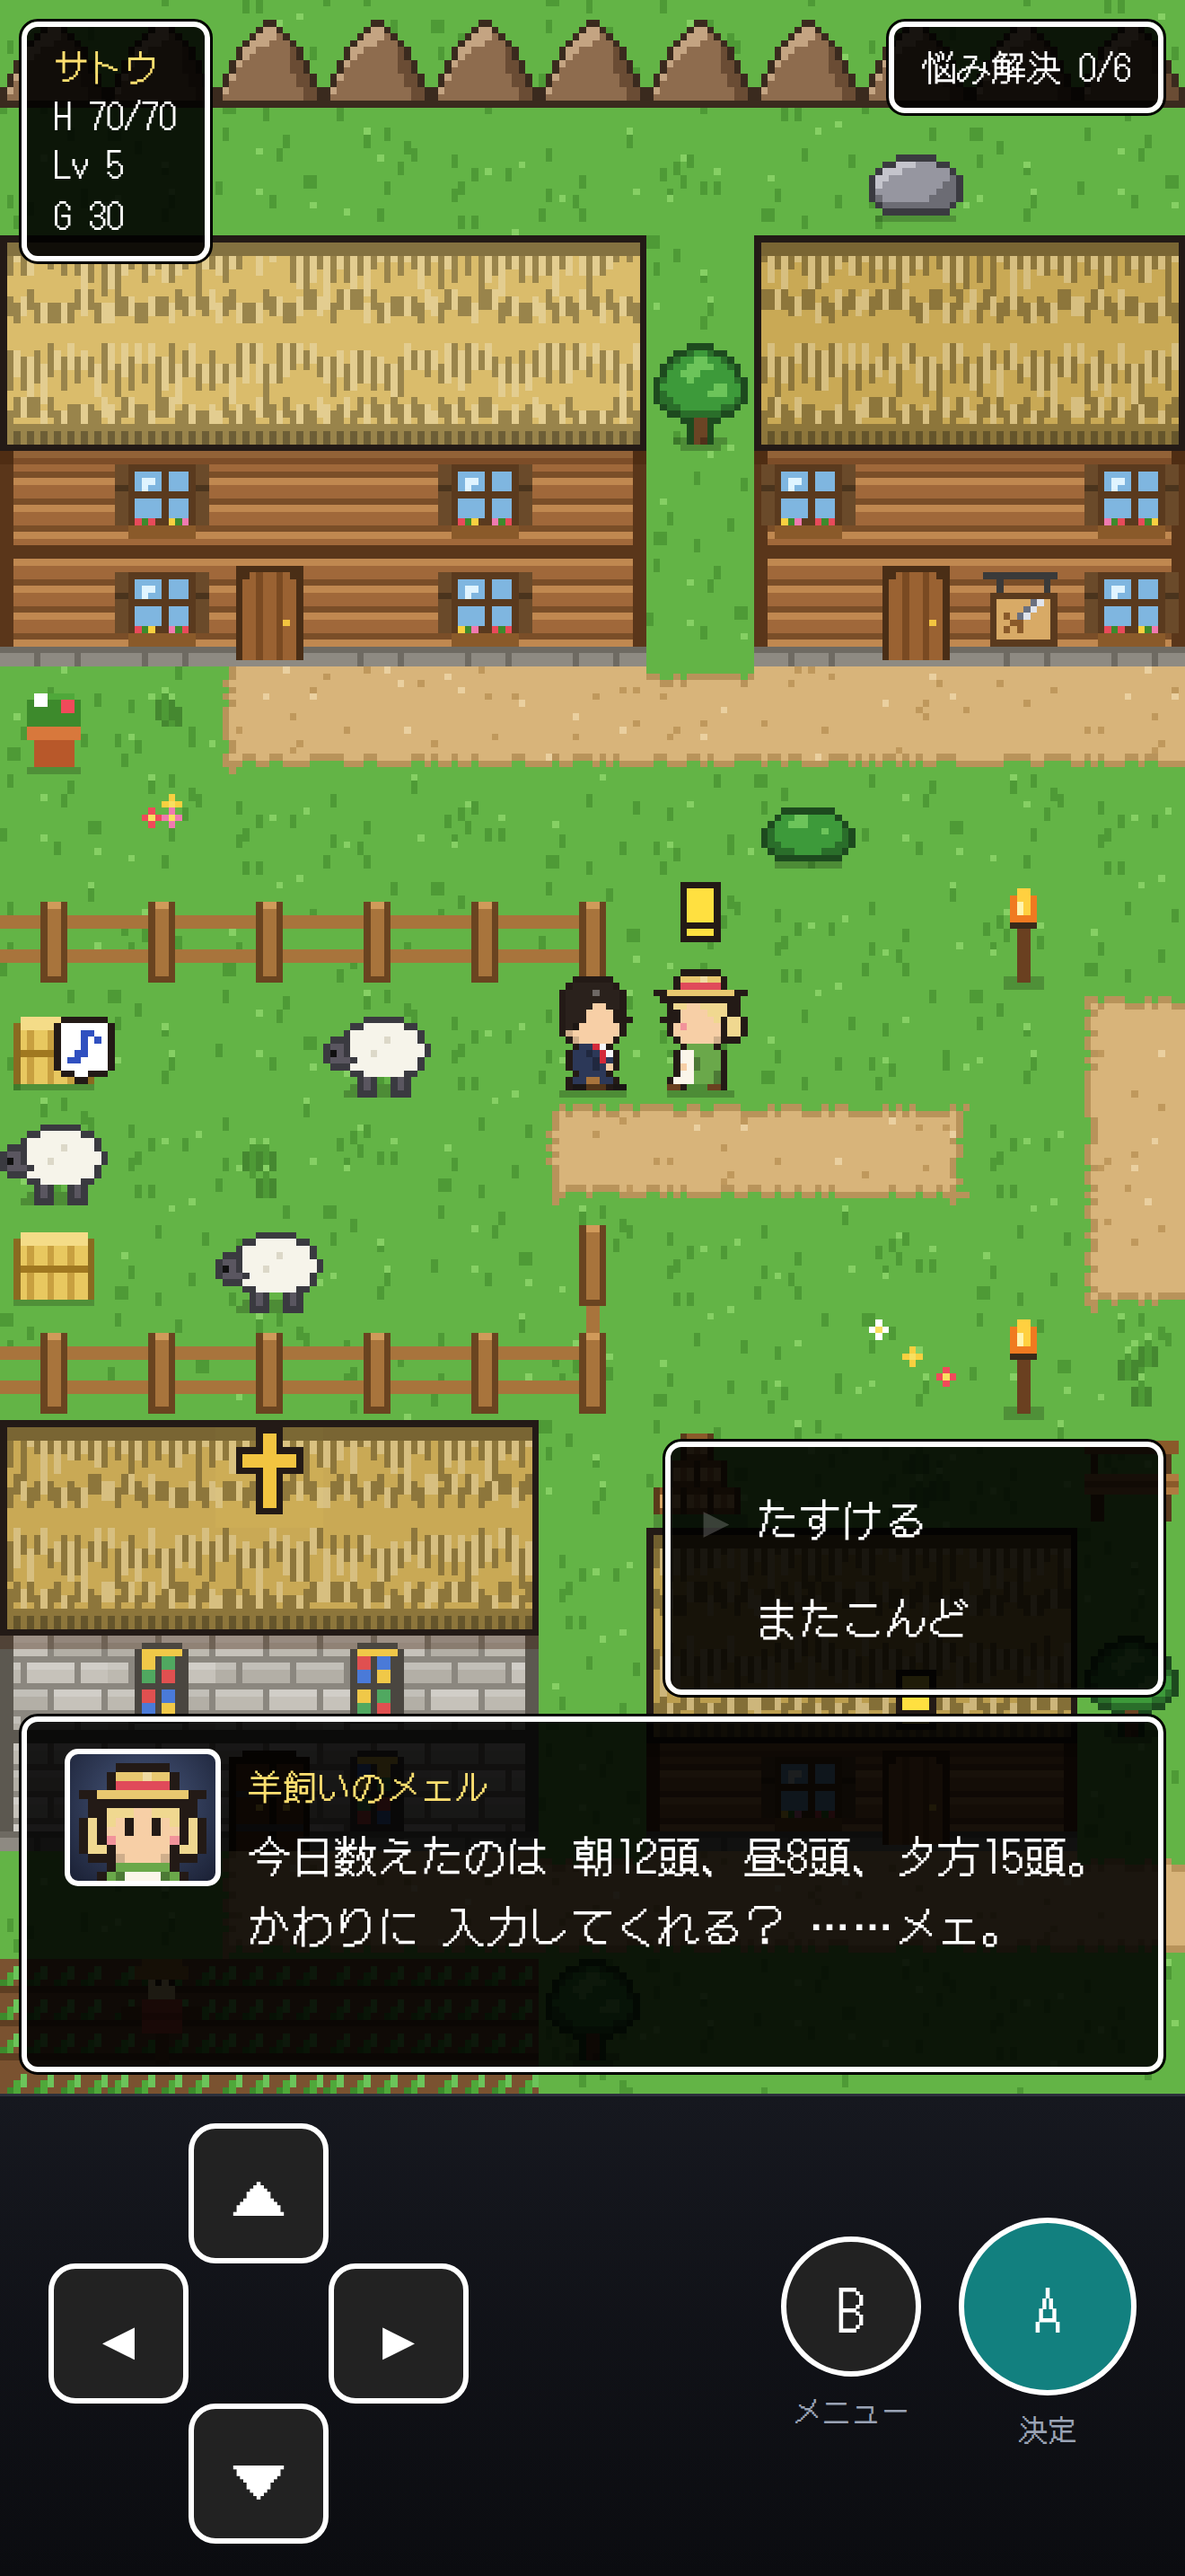
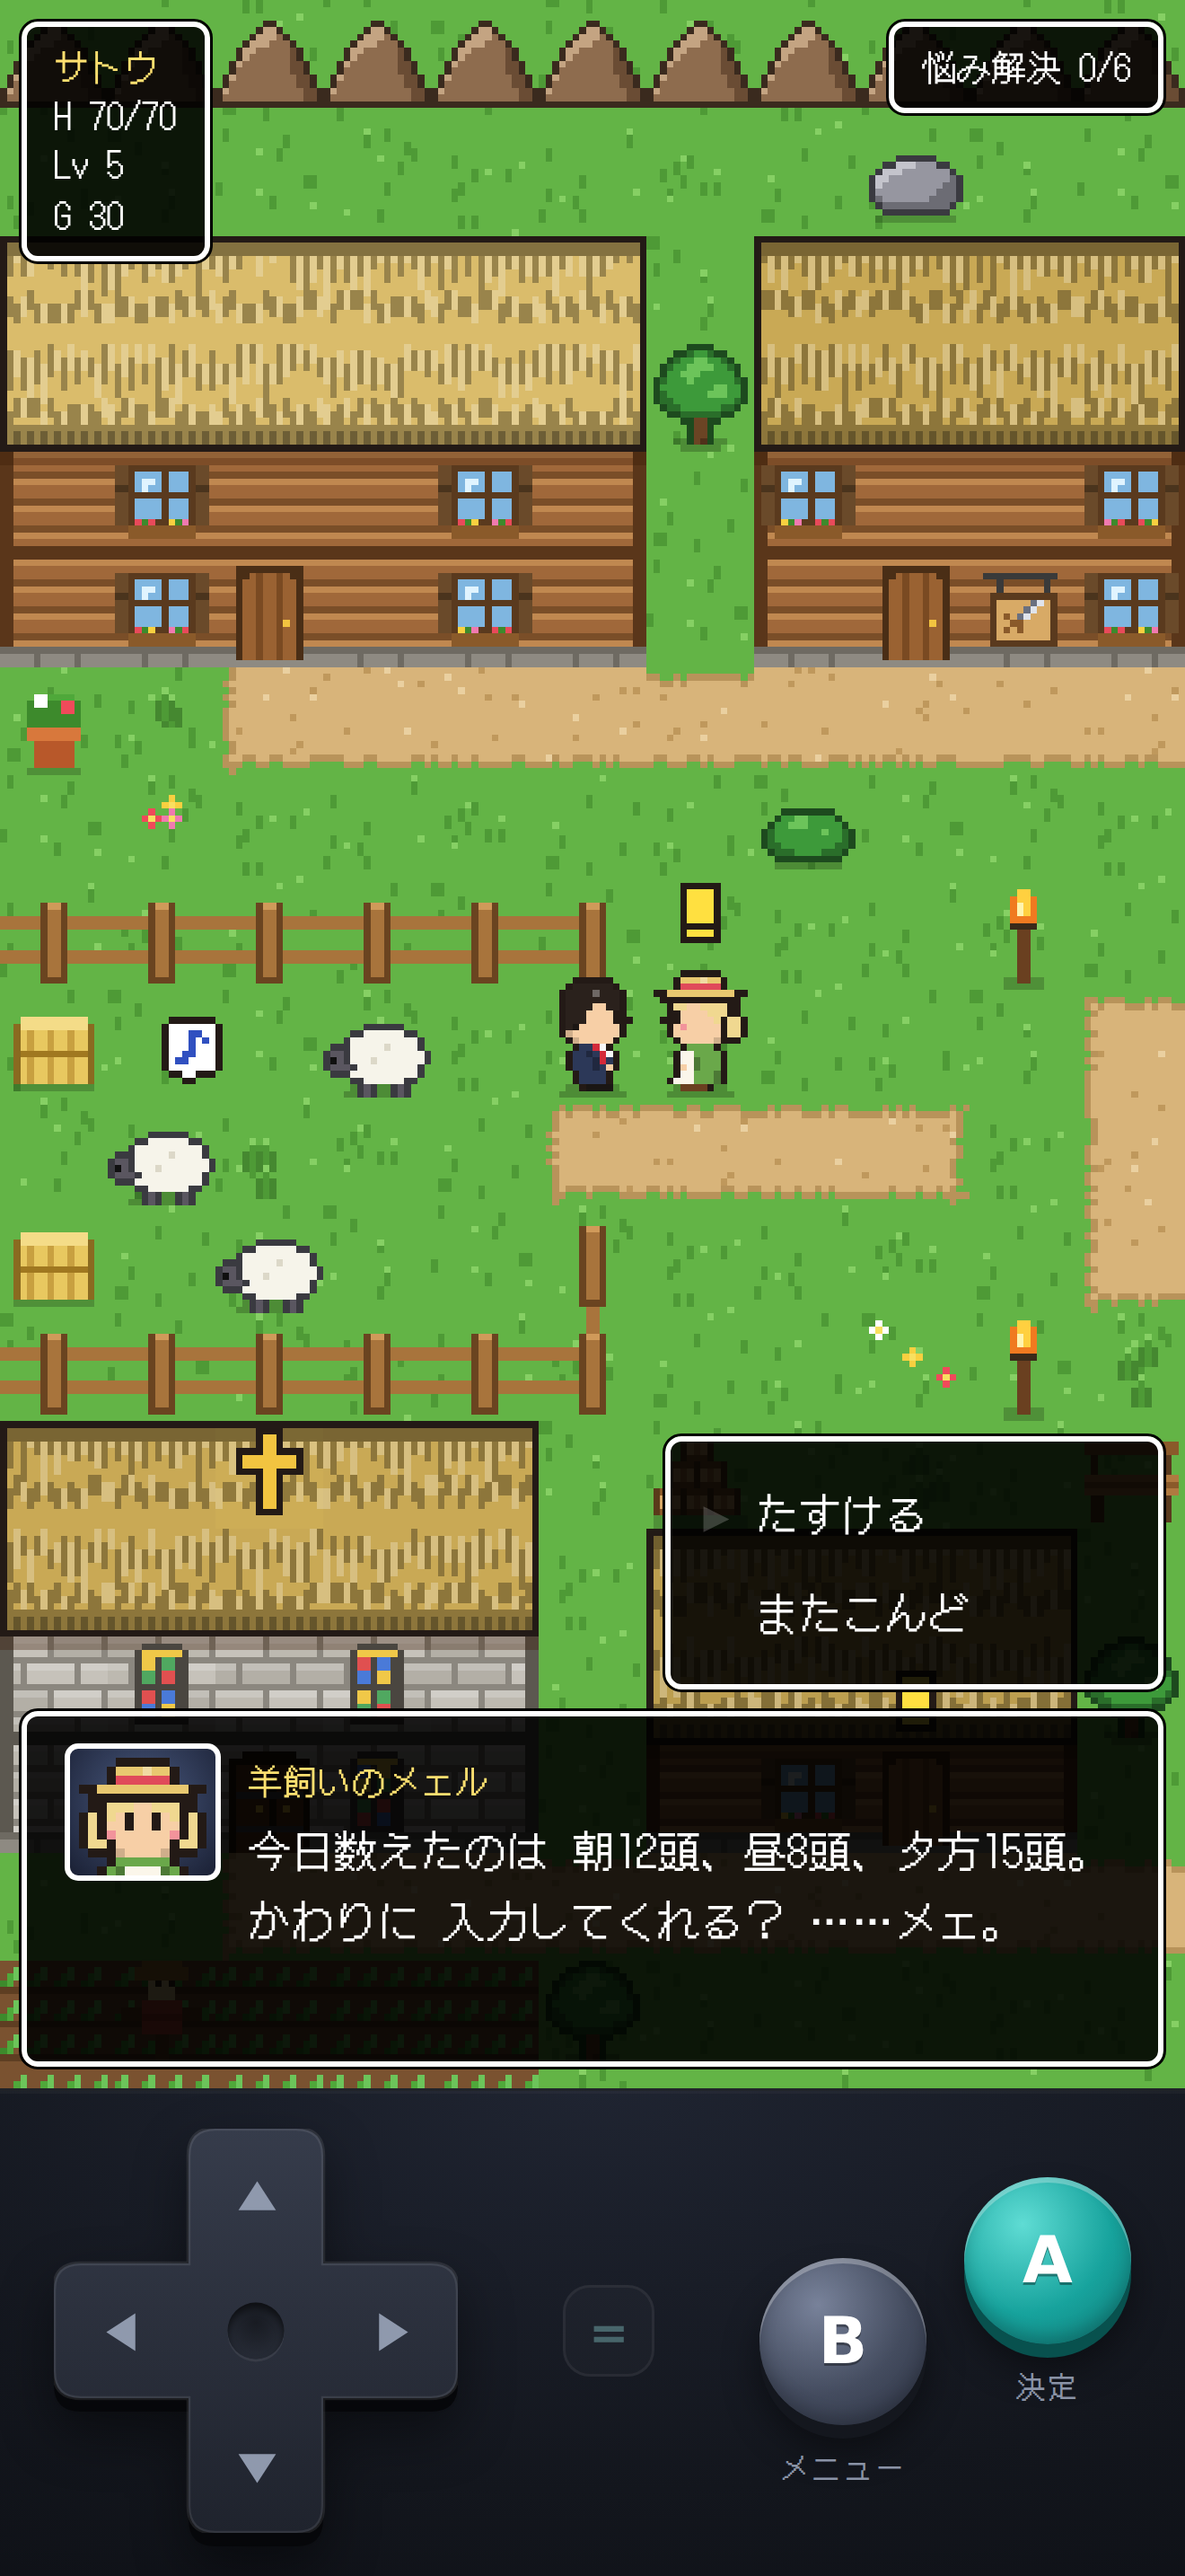
画面下の操作ボタンをデザインし直す
- 十字キーを一体型の十字にし、立体の影と中央のくぼみを付けた
- 矢印は図形で描く（iPhone で ▶ が絵文字になるのを防ぐ）
- A・B はななめに並んだ立体の丸ボタン（A は青緑、B はグレー）
- 押している間は十字キーの矢印が光り、A・B は沈みこむ
- パネルにグラデーションと「＝」のしるし。幅のせまい iPhone では少し小さく
- App Store 用スクリーンショットを撮り直し

Claude-Session: https://claude.ai/code/session_01E8cKWRn6nSUQq3qpnB81UU

diff --git a/src/styles.css b/src/styles.css
@@ -1006,46 +1006,134 @@ kbd {
   font-weight: 700;
 }
 
-/* ---------------- タッチパッド ---------------- */
+/* ---------------- タッチパッド（画面下の 操作ボタン） ---------------- */
 .touchpad {
+  --dp: 52px;
+  --ab: 64px;
   width: min(96vw, 560px);
   display: flex;
   justify-content: space-between;
   align-items: center;
   user-select: none;
   -webkit-user-select: none;
+  -webkit-touch-callout: none;
 }
 .tp {
-  width: 56px;
-  height: 56px;
-  border-radius: 50%;
-  border: 2px solid #fff;
-  background: #222;
+  border: none;
+  padding: 0;
+  background: transparent;
   color: #fff;
-  font-size: 20px;
   touch-action: none;
+  -webkit-tap-highlight-color: transparent;
+  cursor: pointer;
 }
-.tp:active {
-  background: #555;
-}
+
+/* 十字キー：一体型の 十字に 矢印を のせる */
 .dpad {
+  position: relative;
   display: grid;
-  grid-template-columns: repeat(3, 56px);
-  grid-template-rows: repeat(3, 56px);
+  grid-template-columns: repeat(3, var(--dp));
+  grid-template-rows: repeat(3, var(--dp));
+  filter: drop-shadow(0 5px 0 #06070a) drop-shadow(0 8px 10px rgba(0, 0, 0, 0.45));
 }
-.dpad .u { grid-area: 1 / 2; border-radius: 10px; }
-.dpad .l { grid-area: 2 / 1; border-radius: 10px; }
-.dpad .r { grid-area: 2 / 3; border-radius: 10px; }
-.dpad .d { grid-area: 3 / 2; border-radius: 10px; }
+.dpad-body {
+  position: absolute;
+  inset: 0;
+  width: 100%;
+  height: 100%;
+  pointer-events: none;
+}
+.dpad-center {
+  position: absolute;
+  left: 50%;
+  top: 50%;
+  width: calc(var(--dp) * 0.42);
+  height: calc(var(--dp) * 0.42);
+  transform: translate(-50%, -50%);
+  border-radius: 50%;
+  background: radial-gradient(circle at 50% 35%, #181b22, #2b303c);
+  box-shadow: inset 0 2px 3px rgba(0, 0, 0, 0.6), 0 1px 0 rgba(255, 255, 255, 0.07);
+  pointer-events: none;
+}
+.dpad .tp {
+  position: relative;
+  display: grid;
+  place-items: center;
+  border-radius: 10px;
+  transition: background 0.08s;
+}
+.dpad .u { grid-area: 1 / 2; }
+.dpad .l { grid-area: 2 / 1; }
+.dpad .r { grid-area: 2 / 3; }
+.dpad .d { grid-area: 3 / 2; }
+.tp-arrow {
+  width: 38%;
+  height: 38%;
+  fill: #8f99ad;
+  transition: fill 0.08s, transform 0.08s, filter 0.08s;
+}
+.dpad .l .tp-arrow { transform: rotate(-90deg); }
+.dpad .r .tp-arrow { transform: rotate(90deg); }
+.dpad .d .tp-arrow { transform: rotate(180deg); }
+.dpad .tp.on {
+  background: radial-gradient(circle, rgba(95, 224, 216, 0.16), rgba(0, 0, 0, 0.18) 75%);
+}
+.dpad .tp.on .tp-arrow {
+  fill: #6fe8df;
+  filter: drop-shadow(0 0 4px rgba(111, 232, 223, 0.8));
+}
+
+/* まん中の しるし（イコール） */
+.pad-mark {
+  width: 34px;
+  height: 34px;
+  display: grid;
+  place-items: center;
+  border-radius: 10px;
+  font: 700 20px/1 system-ui, 'Hiragino Sans', sans-serif;
+  color: rgba(143, 216, 212, 0.38);
+  border: 1px solid rgba(255, 255, 255, 0.06);
+  background: rgba(255, 255, 255, 0.025);
+}
+
+/* A・B：ななめに 並んだ 立体の 丸ボタン */
 .ab {
   display: flex;
-  gap: 16px;
-  align-items: center;
+  gap: 14px;
+  align-items: flex-start;
 }
-.ab .a {
-  width: 68px;
-  height: 68px;
-  background: var(--brand);
+.ab-btn {
+  display: flex;
+  flex-direction: column;
+  align-items: center;
+  gap: 7px;
+  font-size: 11px;
+  letter-spacing: 0.08em;
+  color: #8a93a6;
+}
+.ab-btn.b {
+  margin-top: 30px;
+}
+.tp.round {
+  width: var(--ab);
+  height: var(--ab);
+  border-radius: 50%;
+  font: 800 24px/1 system-ui, -apple-system, 'Hiragino Sans', sans-serif;
+  text-shadow: 0 1px 0 rgba(0, 0, 0, 0.35);
+  box-shadow: 0 5px 0 var(--edge), 0 9px 14px rgba(0, 0, 0, 0.45), inset 0 2px 0 rgba(255, 255, 255, 0.28), inset 0 -3px 6px rgba(0, 0, 0, 0.2);
+  transition: transform 0.06s, box-shadow 0.06s;
+}
+.tp.round.a {
+  --edge: #08514e;
+  background: radial-gradient(circle at 35% 28%, #5fdcd4, #17a39d 55%, #0f7975);
+}
+.tp.round.b {
+  --edge: #14171e;
+  background: radial-gradient(circle at 35% 28%, #78829a, #444c5f 55%, #2c3242);
+}
+.tp.round.on {
+  transform: translateY(4px);
+  box-shadow: 0 1px 0 var(--edge), 0 3px 6px rgba(0, 0, 0, 0.4), inset 0 2px 0 rgba(255, 255, 255, 0.2), inset 0 -2px 5px rgba(0, 0, 0, 0.25);
 }
 
 @media (max-width: 820px) {
@@ -1799,14 +1887,6 @@ kbd {
 }
 
 /* ================= スマホの 縦画面：画面いっぱいに 表示する ================= */
-.ab-btn {
-  display: flex;
-  flex-direction: column;
-  align-items: center;
-  gap: 4px;
-  font-size: 11px;
-  color: #9aa3b5;
-}
 .title-ios {
   font-size: 12px;
   color: #8fd8d4;
@@ -1846,26 +1926,32 @@ kbd {
 
 /* 操作ボタン（画面の下） */
 .phone .touchpad {
+  --dp: 50px;
+  --ab: 62px;
   flex: none;
   width: 100%;
-  padding: 10px 18px 12px;
-  background: linear-gradient(#16181f, #0b0c10);
-  border-top: 1px solid #2c303b;
+  padding: 14px 20px 16px;
+  background: radial-gradient(130% 150% at 50% 0%, #1f2431 0%, #13161d 55%, #0b0d12 100%);
+  border-top: 1px solid rgba(255, 255, 255, 0.07);
+  box-shadow: inset 0 1px 0 rgba(255, 255, 255, 0.03);
 }
-.phone .tp {
-  width: 52px;
-  height: 52px;
-}
-.phone .dpad {
-  grid-template-columns: repeat(3, 52px);
-  grid-template-rows: repeat(3, 52px);
-}
-.phone .ab {
-  gap: 14px;
-}
-.phone .ab .a {
-  width: 66px;
-  height: 66px;
+
+/* 幅の せまい iPhone（SE 第1世代など）：ボタンを 少し 小さく */
+@media (max-width: 360px) {
+  .phone .touchpad {
+    --dp: 44px;
+    --ab: 54px;
+    padding: 12px 12px 14px;
+  }
+  .phone .pad-mark {
+    display: none;
+  }
+  .phone .ab {
+    gap: 10px;
+  }
+  .phone .tp.round {
+    font-size: 21px;
+  }
 }
 
 /* フィールド */

diff --git a/src/components/Screens.tsx b/src/components/Screens.tsx
@@ -271,38 +271,76 @@ export function Ending({ chapter, name, onDone }: { chapter: number; name: strin
   )
 }
 
+/** 十字キーの 矢印（文字の ▶ は iPhone で 絵文字に なるので 図形で 描く） */
+const Arrow = () => (
+  <svg className="tp-arrow" viewBox="0 0 12 12" aria-hidden>
+    <path d="M6 2.2 L10.4 9 H1.6 Z" />
+  </svg>
+)
+
+/** 画面下の 操作ボタン（十字キーと A・B）。押すと キー入力として ゲームに 送る */
 export function TouchPad() {
-  const send = (type: 'keydown' | 'keyup', key: string, code = '') =>
-    window.dispatchEvent(new KeyboardEvent(type, { key, code, bubbles: true }))
-  const btn = (label: string, key: string, cls: string) => (
+  const [held, setHeld] = useState<ReadonlySet<string>>(new Set())
+  const press = (key: string, down: boolean) => {
+    window.dispatchEvent(new KeyboardEvent(down ? 'keydown' : 'keyup', { key, bubbles: true }))
+    setHeld((h) => {
+      if (h.has(key) === down) return h
+      const n = new Set(h)
+      if (down) n.add(key)
+      else n.delete(key)
+      return n
+    })
+  }
+  const btn = (key: string, cls: string, label: string, face: ReactNode) => (
     <button
-      className={`tp ${cls}`}
+      type="button"
+      aria-label={label}
+      className={`tp ${cls} ${held.has(key) ? 'on' : ''}`}
       onPointerDown={(e) => {
         e.preventDefault()
-        send('keydown', key)
+        press(key, true)
       }}
-      onPointerUp={() => send('keyup', key)}
-      onPointerLeave={() => send('keyup', key)}
+      onPointerUp={() => press(key, false)}
+      onPointerLeave={() => press(key, false)}
+      onPointerCancel={() => press(key, false)}
       onContextMenu={(e) => e.preventDefault()}
     >
-      {label}
+      {face}
     </button>
   )
   return (
     <div className="touchpad">
       <div className="dpad">
-        {btn('▲', 'ArrowUp', 'u')}
-        {btn('◀', 'ArrowLeft', 'l')}
-        {btn('▶', 'ArrowRight', 'r')}
-        {btn('▼', 'ArrowDown', 'd')}
+        <svg className="dpad-body" viewBox="0 0 150 150" aria-hidden>
+          <defs>
+            <linearGradient id="dpad-grad" x1="0" y1="0" x2="0" y2="1">
+              <stop offset="0" stopColor="#363c4b" />
+              <stop offset="1" stopColor="#1f232d" />
+            </linearGradient>
+          </defs>
+          <path
+            d="M60,0 H90 Q100,0 100,10 V50 H140 Q150,50 150,60 V90 Q150,100 140,100 H100 V140 Q100,150 90,150 H60 Q50,150 50,140 V100 H10 Q0,100 0,90 V60 Q0,50 10,50 H50 V10 Q50,0 60,0 Z"
+            fill="url(#dpad-grad)"
+            stroke="rgba(255,255,255,0.09)"
+            strokeWidth="1.5"
+          />
+        </svg>
+        <span className="dpad-center" aria-hidden />
+        {btn('ArrowUp', 'u', '上', <Arrow />)}
+        {btn('ArrowLeft', 'l', '左', <Arrow />)}
+        {btn('ArrowRight', 'r', '右', <Arrow />)}
+        {btn('ArrowDown', 'd', '下', <Arrow />)}
+      </div>
+      <div className="pad-mark" aria-hidden>
+        ＝
       </div>
       <div className="ab">
-        <div className="ab-btn">
-          {btn('B', 'Escape', 'b')}
+        <div className="ab-btn b">
+          {btn('Escape', 'round b', 'メニュー', 'B')}
           <span>メニュー</span>
         </div>
-        <div className="ab-btn">
-          {btn('A', 'Enter', 'a')}
+        <div className="ab-btn a">
+          {btn('Enter', 'round a', '決定', 'A')}
           <span>決定</span>
         </div>
       </div>
